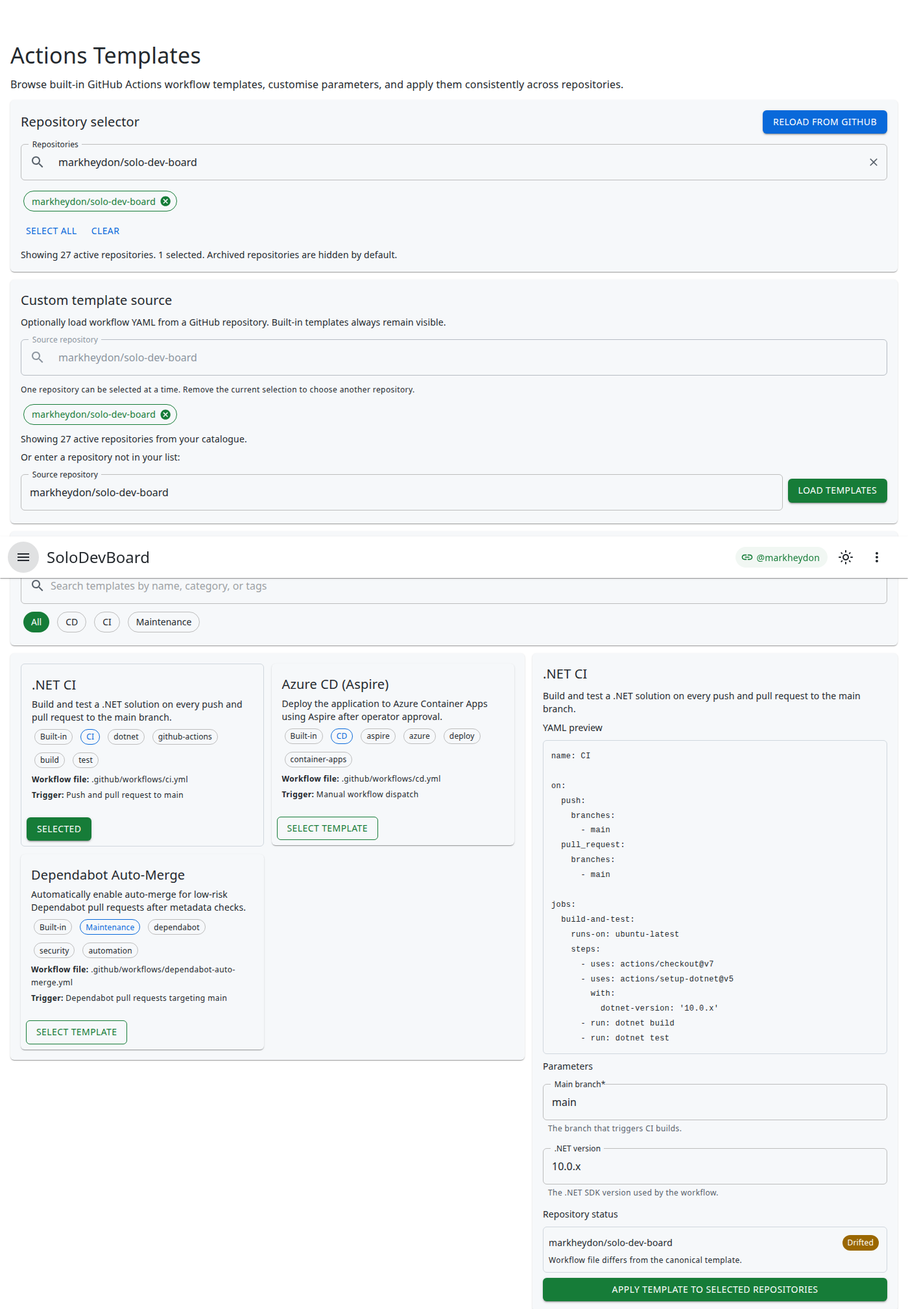
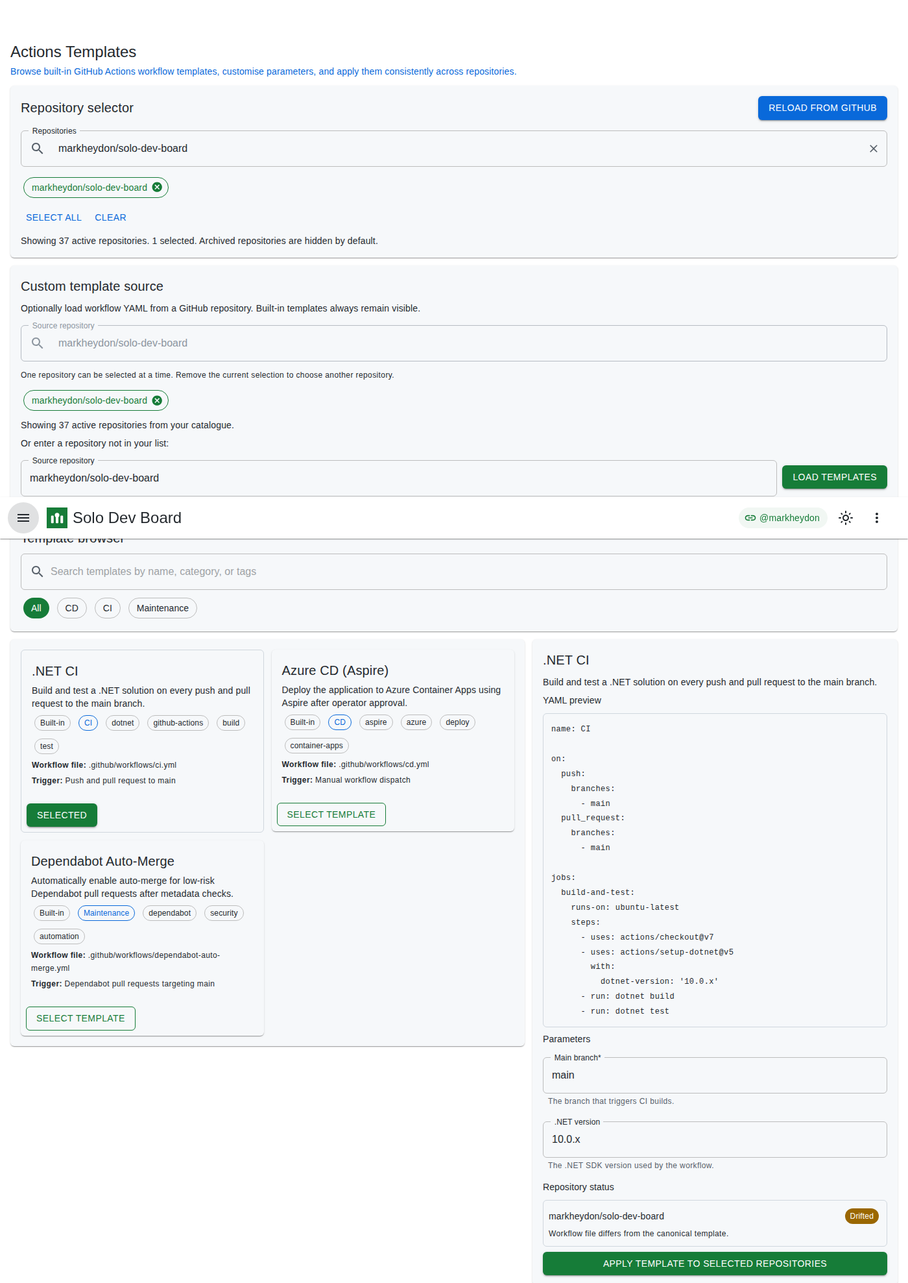
[Documentation] Release v1.4.0 guide, screenshots, and Spec Kit cut-over
Recapture User Guide images after chrome and branding, publish CHANGELOG 1.4.0,
archive shipped plan bundles, and document Spec Kit as default for new features.

diff --git a/plan/SPEC_KIT_MIGRATION.md b/plan/SPEC_KIT_MIGRATION.md
@@ -1,8 +1,8 @@
 # Spec Kit Migration Plan
 
-<!-- AI Collaborator Instructions: Follow the pre–Spec Kit cut-over below before running specify/plan/tasks for new features. Execute the migration checklist when the user requests full Spec Kit adoption after v1.4.0. -->
+<!-- AI Collaborator Instructions: Use Spec Kit for new feature work. Legacy v1.4 delivery is complete; shipped bundles live under plan/archive/. -->
 
-**Status:** Scaffold present (`.specify/`); **full adoption starts after `v1.4.0`**. Until then, deliver **`v1.4`** (page chrome, narrow viewports, and branding) via legacy Issues + `plan/` bundles, not Spec Kit.
+**Status:** **Cut-over active** (2026-11-15, with [`v1.4.0`](https://github.com/markheydon/solo-dev-board/releases/tag/v1.4.0)). New capabilities use **Spec Kit** by default. Scaffold: `.specify/`, feature dirs: `specs/<feature>/`.
 
 **Created:** 2026-07-18.
 
@@ -13,12 +13,11 @@
 ## Prerequisites
 
 - [x] Active decisions live under `adr/` (former `plan/DECISIONS.md` retired).
-- [ ] Constitution stable in [`AGENTS.md`](../AGENTS.md) and [`CONVENTIONS.md`](../CONVENTIONS.md).
+- [ ] Constitution stable in [`AGENTS.md`](../AGENTS.md) and [`CONVENTIONS.md`](../CONVENTIONS.md) (parallel `.specify/memory/constitution.md` exists; slimming `AGENTS.md` deferred).
 - [x] Backlog-to-issues Phase 2 complete ([`plan/archive/BACKLOG_TO_ISSUES_MIGRATION.md`](archive/BACKLOG_TO_ISSUES_MIGRATION.md)).
 - [x] `plan/` slimmed for Spec Kit readiness (2026-11-14): Copilot-era bundles and phased plan archived; see [`plan/README.md`](README.md).
-- [x] Pre–Spec Kit cut-over agreed (2026-11-15), revised the same day: finish **`v1.4`**, including branding pulled forward from a planned `v1.5`, on the existing GitHub Issue tree before Spec Kit becomes the default for new work.
-
-**Execute the migration checklist below after `v1.4.0` is tagged** (or when the user explicitly approves an earlier pilot).
+- [x] Pre–Spec Kit cut-over agreed (2026-11-15): finish **`v1.4`**, then adopt Spec Kit for new work.
+- [x] **`v1.4.0` tagged** (2026-11-15); re-archive review recorded below.
 
 ---
 
@@ -26,17 +25,26 @@
 
 | Phase | Milestone | Delivery mode | Product intent |
 | --- | --- | --- | --- |
-| **Now** | **`v1.4 - Product chrome, branding, and narrow viewports`** | Normal Plan mode; **existing** epic [#526](https://github.com/markheydon/solo-dev-board/issues/526) and children. Chrome: [#527](https://github.com/markheydon/solo-dev-board/issues/527), [#528](https://github.com/markheydon/solo-dev-board/issues/528), [#530](https://github.com/markheydon/solo-dev-board/issues/530), [#411](https://github.com/markheydon/solo-dev-board/issues/411). Branding (pulled forward 2026-11-15): [#397](https://github.com/markheydon/solo-dev-board/issues/397), [#529](https://github.com/markheydon/solo-dev-board/issues/529), [#531](https://github.com/markheydon/solo-dev-board/issues/531) | [`product-chrome-ui-quality/`](product-chrome-ui-quality/README.md) bundle + wireframes |
-| **After `v1.4.0`** | Next promoted feature | **Spec Kit default:** `/speckit-specify` → plan → tasks → implement | `.specify/specs/<feature>/`; at most one tracking issue, not a generated subtree |
+| **Complete** | **`v1.4 - Product chrome, branding, and narrow viewports`** | Legacy Issues + `plan/archive/product-chrome-ui-quality/` | Shipped [`v1.4.0`](https://github.com/markheydon/solo-dev-board/releases/tag/v1.4.0) |
+| **Now** | Next promoted feature | **Spec Kit default:** `/speckit-specify` → plan → tasks → implement | `specs/<feature>/`; at most one tracking issue, not a generated subtree |
 
 There is no `v1.5` milestone. Do not declare one for branding.
 
 ### Rules for agents
 
-1. **Do not** run Spec Kit specify/plan/tasks for **`v1.4`** scope (chrome or branding) unless the user explicitly overrides (for example a post-ship archival spec).
-2. **Do not** use Copilot-era planning prompts to mint new Epic → Feature → Story trees for work that already has issues.
-3. **Do** use Spec Kit for **new** or **ice-box promoted** capabilities after cut-over, typically a single Feature or Story worth of intent, not prompt-driven decomposition.
-4. **Re-archive review:** After **`v1.4.0`**, review active `plan/` feature bundles ([`product-chrome-ui-quality/`](product-chrome-ui-quality/README.md), [`label-remap-taxonomy-project-plan.md`](label-remap-taxonomy-project-plan.md), wireframes) and move superseded prose to [`archive/`](archive/README.md) or into `.specify/specs/` as appropriate. Record outcome in this file.
+1. **Do** use Spec Kit for **new** or **ice-box promoted** capabilities.
+2. **Do not** use Copilot-era planning prompts to mint new Epic → Feature → Story trees.
+3. **Do not** maintain duplicate feature prose in `plan/SCOPE.md` and a spec for the same capability.
+4. **Historical `v1.4`:** do not re-open Spec Kit specify/plan/tasks for chrome/branding unless the user explicitly requests a post-ship archival spec.
+
+### Re-archive review (2026-11-15, with `v1.4.0`)
+
+| Artefact | Outcome |
+| --- | --- |
+| [`archive/product-chrome-ui-quality/`](archive/product-chrome-ui-quality/README.md) | Archived (shipped `v1.4.0`) |
+| [`archive/label-remap-taxonomy-project-plan.md`](archive/label-remap-taxonomy-project-plan.md) | Archived (shipped `v1.3.0`) |
+| [`wireframes/`](wireframes/) | Retained as implemented UI references |
+| New specs under `specs/` | Deferred until first post-`v1.4.0` feature pilot |
 
 ---
 
@@ -46,7 +54,7 @@ There is no `v1.5` milestone. Do not declare one for branding.
 | --- | --- |
 | `AGENTS.md` + `CONVENTIONS.md` | `.specify/memory/constitution.md` (+ path rules as needed) |
 | `adr/` (product decisions) | Absorbed into constitution and per-feature specs where appropriate |
-| `plan/SCOPE.md` + `plan/wireframes/` | `.specify/specs/<feature>/spec.md` |
+| `plan/SCOPE.md` + `plan/wireframes/` | `specs/<feature>/spec.md` |
 | `plan/archive/IMPLEMENTATION_PLAN.md` (retired) | Spec Kit plan artefacts per feature |
 | `.agents/skills/` | Stays outside Spec Kit (agent orchestration) |
 | `docs/` (operator guides) | Stays end-user facing; link from specs where relevant |
@@ -62,38 +70,35 @@ There is no `v1.5` milestone. Do not declare one for branding.
 
 ---
 
-## Execution checklist (when approved)
+## Execution checklist
 
 ### Step 1 — Initialise Spec Kit
 
-- [ ] Run `specify init` (or equivalent) at repository root.
-- [ ] Add `.specify/` to contributor docs; document CLI prerequisites in `docs/getting-started.md` if needed.
+- [x] Scaffold present (`.specify/` on `main`, PR #590).
+- [x] Contributor pointers in [`docs/getting-started.md`](../docs/getting-started.md) and [`docs/README.md`](../docs/README.md).
+- [x] Maintainer pointers in [`plan/README.md`](README.md), [`plan/DOCS_STRATEGY.md`](DOCS_STRATEGY.md).
 
 ### Step 2 — Import constitution
 
-- [ ] Draft `.specify/memory/constitution.md` from `AGENTS.md`, `CONVENTIONS.md`, and essential `adr/` entries.
-- [ ] Slim `AGENTS.md` to pointer: "Constitution: `.specify/memory/constitution.md`" for Spec Kit users, or keep parallel until cut-over is validated.
+- [x] `.specify/memory/constitution.md` drafted (PR #590).
+- [ ] Slim `AGENTS.md` to a pointer-only constitution gate — **deferred** (explicit follow-up).
 
 ### Step 3 — Pilot one feature spec
 
-- [ ] Pick the first **post–`v1.4.0`** promoted feature (or an explicitly approved pilot).
-- [ ] Create `.specify/specs/<feature>/spec.md` from `plan/SCOPE.md`, wireframes, or a slim issue body.
-- [ ] Run Spec Kit plan/implement flow once end-to-end; capture gaps in this doc.
-- [ ] Branding (#397, #529, #531) stays on the existing issue tree through `v1.4`. Do not pilot Spec Kit on that work unless the user explicitly overrides.
+- [ ] First **post–`v1.4.0`** promoted feature — **deferred** until backlog promotion.
 
 ### Step 4 — Update agent gates
 
-- [ ] Update [`AGENTS.md`](../AGENTS.md) and skills to reference Spec Kit for new feature work.
-- [ ] Update [`plan/DOCS_STRATEGY.md`](DOCS_STRATEGY.md).
+- [ ] Update [`AGENTS.md`](../AGENTS.md) and skills — **deferred** (out of scope for release doc PR).
+- [x] Update [`plan/DOCS_STRATEGY.md`](DOCS_STRATEGY.md).
 
 ### Step 5 — Retire duplicate planning prose
 
-- [ ] Mark migrated sections of `plan/SCOPE.md` as pointers to specs.
+- [x] Shipped increments archived under `plan/archive/`; [`plan/SCOPE.md`](SCOPE.md) keeps boundaries only.
 
 ### Step 6 — Validation
 
-- [ ] One feature delivered via Spec Kit only (spec → plan → implement).
-- [ ] No duplicate decision files outside Spec Kit and `adr/` for the same rule.
+- [ ] One feature delivered via Spec Kit only — **deferred** (pilot feature).
 
 ---
 
@@ -107,8 +112,8 @@ There is no `v1.5` milestone. Do not declare one for branding.
 
 ## Invocation
 
-When ready to execute, give the agent:
+When ready to execute the remaining checklist (pilot feature, `AGENTS.md` slimming):
 
 ```text
-Execute plan/SPEC_KIT_MIGRATION.md — [any constraints, e.g. pilot feature name].
+Execute plan/SPEC_KIT_MIGRATION.md — [constraints, e.g. pilot feature name].
 ```

diff --git a/plan/PROJECT_MANAGEMENT.md b/plan/PROJECT_MANAGEMENT.md
@@ -36,14 +36,14 @@ During catch-up, deferred slices may sit on the milestone as **unlinked stories*
 
 Implementation **phases** in [`archive/IMPLEMENTATION_PLAN.md`](archive/IMPLEMENTATION_PLAN.md) are historical sequencing for the v1.0 release. The Project board **Phase** field is legacy for closed pre-1.0 milestones only.
 
-### Delivery mode: GitHub Issues vs Spec Kit (2026-11-15)
+### Delivery mode: GitHub Issues vs Spec Kit (2026-11-15, cut-over 2026-11-15 with `v1.4.0`)
 
 | When | How to plan and implement |
 |------|---------------------------|
-| **`v1.4`** (product chrome epic [#526](https://github.com/markheydon/solo-dev-board/issues/526), including branding [#397](https://github.com/markheydon/solo-dev-board/issues/397)) | **Legacy / Plan mode:** use the **existing** issue → sub-issue tree and [`product-chrome-ui-quality/`](product-chrome-ui-quality/README.md) bundle. Implement with normal branches and PRs linked to issues. Do **not** run Copilot-era prompts that mint new children. Do **not** use Spec Kit as the planning gate. |
-| **After `v1.4.0`** | **Spec Kit default** for new or promoted features: `.specify/specs/<feature>/` and the `/speckit-*` workflow. Avoid prompt-driven Epic → Feature → Story explosion; prefer one spec per capability and lightweight GitHub tracking. |
+| **Shipped increments** (`v1.4` chrome [#526](https://github.com/markheydon/solo-dev-board/issues/526) and earlier milestones) | **Historical:** Issues + `plan/archive/` bundles. Do not revive Copilot-era prompts to mint new children. |
+| **Now (`v1.4.0` tagged)** | **Spec Kit default** for new or promoted features: `specs/<feature>/` and the `/speckit-*` workflow. Avoid prompt-driven Epic → Feature → Story explosion; prefer one spec per capability and lightweight GitHub tracking. |
 
-Full cut-over rules: [`SPEC_KIT_MIGRATION.md`](SPEC_KIT_MIGRATION.md). Branding ships on **`v1.4`**. Do not declare a separate **`v1.5`** ([DEC-027](adr/adr-0027-post-1-0-milestone-and-work-item-hierarchy.md)).
+Full cut-over rules: [`SPEC_KIT_MIGRATION.md`](SPEC_KIT_MIGRATION.md). Do not declare a separate **`v1.5`** ([DEC-027](adr/adr-0027-post-1-0-milestone-and-work-item-hierarchy.md)).
 
 ---
 
@@ -130,7 +130,7 @@ The descriptive suffix names the milestone theme; it is not repeated in the rele
 | `v1.1 - Cross-Repo Planning & Refinement` | `v1.1.0` | Closed | Shipped 2026-08-31 — **91 closed, 0 open**. |
 | `v1.2 - Planning polish, Reload & Templates` | `v1.2.0` | Closed | Shipped 2026-09-07 — [`v1.2.0`](https://github.com/markheydon/solo-dev-board/releases/tag/v1.2.0). |
 | `v1.3 - Label remap onto the recommended taxonomy` | `v1.3.0` | Closed | Shipped 2026-11-15 — label remap [#491](https://github.com/markheydon/solo-dev-board/issues/491) and fixes. |
-| `v1.4 - Product chrome, branding, and narrow viewports` | `v1.4.0` | Open | Declared 2026-11-15. Chrome [#526](https://github.com/markheydon/solo-dev-board/issues/526), [#527](https://github.com/markheydon/solo-dev-board/issues/527), [#528](https://github.com/markheydon/solo-dev-board/issues/528), [#530](https://github.com/markheydon/solo-dev-board/issues/530), [#411](https://github.com/markheydon/solo-dev-board/issues/411). Branding pulled forward the same day: [#397](https://github.com/markheydon/solo-dev-board/issues/397), [#529](https://github.com/markheydon/solo-dev-board/issues/529), [#531](https://github.com/markheydon/solo-dev-board/issues/531). |
+| `v1.4 - Product chrome, branding, and narrow viewports` | `v1.4.0` | Closed | Shipped 2026-11-15 — [`v1.4.0`](https://github.com/markheydon/solo-dev-board/releases/tag/v1.4.0). Chrome and branding on milestone #10. |
 
 The unused `v1.2.0 - Cross-Repo Planning` milestone was closed then **deleted** on 2026-08-18 after work moved to `v1.1 - Cross-Repo Planning & Refinement`. The current `v1.2` milestone is a later, different increment (Planning polish, Reload, and templates), not a revival of that deleted planning-only bucket.
 

diff --git a/plan/SCOPE.md b/plan/SCOPE.md
@@ -94,8 +94,8 @@ The following are explicitly **not** in scope for the current version of Solo De
 - **AI-driven development:** The project is developed with GitHub Copilot as an active collaborator. All planning documents are written to be machine-readable and actionable by AI agents.
 - **Minimal dependencies:** Prefer the .NET ecosystem and well-established open source libraries. Avoid adding dependencies without an ADR ([`adr/`](../adr/)).
 - **UI component library:** MudBlazor is the sole UI component library for the Blazor front-end (see [DEC-009](adr/adr-0012-switch-to-mudblazor-component-library.md)). Page chrome follows [DEC-039](adr/adr-0039-mudblazor-visual-language-for-page-chrome.md). Raw HTML form elements are not used where a MudBlazor equivalent exists.
-- **Product mark:** Display name **Solo Dev Board**, Solo family seal (favicon / GitHub App / public-site logo), and related copy ship on milestone **`v1.4`** ([#397](https://github.com/markheydon/solo-dev-board/issues/397), [#529](https://github.com/markheydon/solo-dev-board/issues/529), [#531](https://github.com/markheydon/solo-dev-board/issues/531)). Code identifiers remain `SoloDevBoard`. See [`plan/wireframes/product-branding-wireframe.md`](wireframes/product-branding-wireframe.md).
-- **Responsive web (not a native app):** Phone and tablet browsers are in-scope quality for shipped pages. Compact tablet (iPad mini class) is the practical daily-use target; phone-width must remain usable. Tracked on milestone **`v1.4`** as story [#411](https://github.com/markheydon/solo-dev-board/issues/411) under the visual language feature ([#527](https://github.com/markheydon/solo-dev-board/issues/527) / epic [#526](https://github.com/markheydon/solo-dev-board/issues/526)). A native iOS or Android application remains out of scope.
+- **Product mark:** Display name **Solo Dev Board**, Solo family seal (favicon / GitHub App / public-site logo), and related copy (shipped [`v1.4.0`](https://github.com/markheydon/solo-dev-board/releases/tag/v1.4.0); [#397](https://github.com/markheydon/solo-dev-board/issues/397)). Code identifiers remain `SoloDevBoard`. Wireframe: [`plan/wireframes/product-branding-wireframe.md`](wireframes/product-branding-wireframe.md).
+- **Responsive web (not a native app):** Phone and tablet browsers are in-scope quality for shipped pages. Compact tablet (iPad mini class) is the practical daily-use target; phone-width must remain usable (shipped `v1.4`; [#411](https://github.com/markheydon/solo-dev-board/issues/411)). A native iOS or Android application remains out of scope.
 
 ---
 
@@ -144,4 +144,5 @@ The following are explicitly **not** in scope for the current version of Solo De
 | 2026-11-14 | Label remap ([#491](https://github.com/markheydon/solo-dev-board/issues/491)) delivered on `v1.3`; milestone ready to tag. Roadmap status consolidated in [`plan/BACKLOG.md`](BACKLOG.md). | Solo developer |
 | 2026-11-15 | `v1.3 - Label remap onto the recommended taxonomy` tagged [`v1.3.0`](https://github.com/markheydon/solo-dev-board/releases/tag/v1.3.0). Opened **`v1.4 - Product chrome and narrow viewports`**; [#411](https://github.com/markheydon/solo-dev-board/issues/411) on that milestone. | Solo developer |
 | 2026-11-15 | Product branding ([#397](https://github.com/markheydon/solo-dev-board/issues/397), [#529](https://github.com/markheydon/solo-dev-board/issues/529), [#531](https://github.com/markheydon/solo-dev-board/issues/531)) pulled into **`v1.4`**. Milestone renamed **`v1.4 - Product chrome, branding, and narrow viewports`**. No separate `v1.5`. Spec Kit cut-over moves to after `v1.4.0`. | Solo developer |
+| 2026-11-15 | **`v1.4 - Product chrome, branding, and narrow viewports`** tagged [`v1.4.0`](https://github.com/markheydon/solo-dev-board/releases/tag/v1.4.0). Spec Kit is the default for new feature intent ([`SPEC_KIT_MIGRATION.md`](SPEC_KIT_MIGRATION.md)). | Solo developer |
 

diff --git a/plan/BACKLOG.md b/plan/BACKLOG.md
@@ -25,9 +25,9 @@ For historical backlog content (pre-migration), see [archive/BACKLOG-2026-07-18.
 | Cross-Repo Planning & Refinement | `v1.1 - Cross-Repo Planning & Refinement` | `v1.1.0` | Complete — [`v1.1.0`](https://github.com/markheydon/solo-dev-board/releases/tag/v1.1.0) (2026-08-31) |
 | Planning polish, Reload & Templates | `v1.2 - Planning polish, Reload & Templates` | `v1.2.0` | Complete — [`v1.2.0`](https://github.com/markheydon/solo-dev-board/releases/tag/v1.2.0) (2026-09-07) |
 | Label remap onto the recommended taxonomy | `v1.3 - Label remap onto the recommended taxonomy` | `v1.3.0` | Complete — [`v1.3.0`](https://github.com/markheydon/solo-dev-board/releases/tag/v1.3.0) (2026-11-15) |
-| Product chrome, branding, and narrow viewports | `v1.4 - Product chrome, branding, and narrow viewports` | `v1.4.0` | Active - [milestone #10](https://github.com/markheydon/solo-dev-board/milestone/10): chrome [#526](https://github.com/markheydon/solo-dev-board/issues/526), [#527](https://github.com/markheydon/solo-dev-board/issues/527), [#528](https://github.com/markheydon/solo-dev-board/issues/528), [#530](https://github.com/markheydon/solo-dev-board/issues/530), [#411](https://github.com/markheydon/solo-dev-board/issues/411); branding [#397](https://github.com/markheydon/solo-dev-board/issues/397), [#529](https://github.com/markheydon/solo-dev-board/issues/529), [#531](https://github.com/markheydon/solo-dev-board/issues/531) (pulled forward 2026-11-15). Planning: [`product-chrome-ui-quality/`](product-chrome-ui-quality/README.md). Spec Kit after `v1.4.0` ([`SPEC_KIT_MIGRATION.md`](SPEC_KIT_MIGRATION.md)). |
+| Product chrome, branding, and narrow viewports | `v1.4 - Product chrome, branding, and narrow viewports` | `v1.4.0` | Complete — [`v1.4.0`](https://github.com/markheydon/solo-dev-board/releases/tag/v1.4.0) (2026-11-15). Milestone [#10](https://github.com/markheydon/solo-dev-board/milestone/10) closed. |
 
-Per [DEC-027](adr/adr-0027-post-1-0-milestone-and-work-item-hierarchy.md), **`v1.4`** is the only **open** milestone. Product branding is on that milestone. Do not declare a separate **`v1.5`**.
+Per [DEC-027](adr/adr-0027-post-1-0-milestone-and-work-item-hierarchy.md), there is **no open milestone** until the next release is declared. **New or promoted features** use **Spec Kit** ([`SPEC_KIT_MIGRATION.md`](SPEC_KIT_MIGRATION.md)), not Copilot-era issue-tree prompts. Do not declare a separate **`v1.5`** for branding (folded into `v1.4`).
 
 **Unmilestoned backlog:** [#293](https://github.com/markheydon/solo-dev-board/issues/293) (platform-blocked private user-owned Projects v2 under hosted sign-in); [#391](https://github.com/markheydon/solo-dev-board/issues/391) (Aspire PM settings store); [#498](https://github.com/markheydon/solo-dev-board/issues/498) (persist Actions template source — blocked by #391); ice-box catalogue and hygiene work ([#381](https://github.com/markheydon/solo-dev-board/issues/381), [#435](https://github.com/markheydon/solo-dev-board/issues/435)–[#439](https://github.com/markheydon/solo-dev-board/issues/439), [#450](https://github.com/markheydon/solo-dev-board/issues/450), [#470](https://github.com/markheydon/solo-dev-board/issues/470), [#534](https://github.com/markheydon/solo-dev-board/issues/534)–[#537](https://github.com/markheydon/solo-dev-board/issues/537), [#571](https://github.com/markheydon/solo-dev-board/issues/571)). Dispositions: [Ice-box review](#ice-box-review-2026-11-15). Closed ice-box direction: [#475](https://github.com/markheydon/solo-dev-board/issues/475) (see [`PRODUCT_OPERATING_SYSTEM.md`](PRODUCT_OPERATING_SYSTEM.md)). See [open issues](https://github.com/markheydon/solo-dev-board/issues?q=is%3Aissue+is%3Aopen).
 

diff --git a/CHANGELOG.md b/CHANGELOG.md
@@ -7,6 +7,29 @@ and this project adheres to [Semantic Versioning](https://semver.org/spec/v2.0.0
 
 ## [Unreleased]
 
+## [1.4.0] - 2026-11-15
+
+Product chrome, branding, and narrow viewports. GitHub milestone [`v1.4 - Product chrome, branding, and narrow viewports`](https://github.com/markheydon/solo-dev-board/milestone/10) closed with 11 issues delivered. User Guide screenshots recaptured for shared chrome and branding. Maintainer docs updated for **Spec Kit** as the default for new feature work ([`plan/SPEC_KIT_MIGRATION.md`](plan/SPEC_KIT_MIGRATION.md)).
+
+### Added
+
+- **Product identity** — spoken display name **Solo Dev Board**, Solo family mark on the app bar and welcome page, and an updated favicon set ([#397](https://github.com/markheydon/solo-dev-board/issues/397), [#531](https://github.com/markheydon/solo-dev-board/issues/531)).
+
+### Changed
+
+- **Visual language** — shared MudBlazor page chrome across shipped feature pages ([#527](https://github.com/markheydon/solo-dev-board/issues/527), [#528](https://github.com/markheydon/solo-dev-board/issues/528), [#530](https://github.com/markheydon/solo-dev-board/issues/530)).
+- **Narrow viewports** — phone- and compact-tablet-friendly layout on representative routes ([#411](https://github.com/markheydon/solo-dev-board/issues/411)).
+- **Theming** — centralised theme tokens and removal of redundant MudBlazor CSS overrides ([#529](https://github.com/markheydon/solo-dev-board/issues/529)).
+
+### Known limitations (not in this release)
+
+- Persisted default workflow template parameter profiles ([#436](https://github.com/markheydon/solo-dev-board/issues/436)) remain planned for a later release.
+- Server-backed persistence for the custom Actions template source waits on an Aspire product store ([#498](https://github.com/markheydon/solo-dev-board/issues/498), blocked by [#391](https://github.com/markheydon/solo-dev-board/issues/391)).
+- Private user-owned Projects v2 under hosted GitHub App sign-in remain platform-blocked ([#293](https://github.com/markheydon/solo-dev-board/issues/293)).
+- Repositories Add / Remove / Bulk / Edit / More actions remain stubs ([#435](https://github.com/markheydon/solo-dev-board/issues/435)).
+- Full GitHub Project v2 automation-rule retrieval remains a later Board Rules slice ([#437](https://github.com/markheydon/solo-dev-board/issues/437)).
+- Window-focus refetch after Reload from GitHub remains ice-boxed ([#450](https://github.com/markheydon/solo-dev-board/issues/450)).
+
 ## [1.3.0] - 2026-11-15
 
 Label remap onto the recommended taxonomy. GitHub milestone [`v1.3 - Label remap onto the recommended taxonomy`](https://github.com/markheydon/solo-dev-board/milestone/9) closed with 14 issues delivered.
@@ -31,7 +54,6 @@ Label remap onto the recommended taxonomy. GitHub milestone [`v1.3 - Label remap
 - Repositories Add / Remove / Bulk / Edit / More actions remain stubs ([#435](https://github.com/markheydon/solo-dev-board/issues/435)).
 - Full GitHub Project v2 automation-rule retrieval remains a later Board Rules slice ([#437](https://github.com/markheydon/solo-dev-board/issues/437)).
 - Window-focus refetch after Reload from GitHub remains ice-boxed ([#450](https://github.com/markheydon/solo-dev-board/issues/450)).
-- MudBlazor page chrome ([#528](https://github.com/markheydon/solo-dev-board/issues/528)) and narrow-viewport layout ([#411](https://github.com/markheydon/solo-dev-board/issues/411)) are scoped on milestone **`v1.4`** ([#526](https://github.com/markheydon/solo-dev-board/issues/526), [#527](https://github.com/markheydon/solo-dev-board/issues/527)).
 
 ## [1.2.0] - 2026-09-07
 

diff --git a/plan/PROJECT_README.md b/plan/PROJECT_README.md
@@ -17,11 +17,11 @@ Refresh this file when milestones change so the public board description does no
 
 SoloDevBoard provides a single pane of glass for solo developers managing GitHub workloads across multiple repositories.
 
-**Status:** On track. Public releases through [v1.3.0](https://github.com/markheydon/solo-dev-board/releases/tag/v1.3.0) (label remap). Active milestone: [**v1.4 - Product chrome, branding, and narrow viewports**](https://github.com/markheydon/solo-dev-board/milestone/10) (chrome [#526](https://github.com/markheydon/solo-dev-board/issues/526), [#527](https://github.com/markheydon/solo-dev-board/issues/527), [#528](https://github.com/markheydon/solo-dev-board/issues/528), [#530](https://github.com/markheydon/solo-dev-board/issues/530), [#411](https://github.com/markheydon/solo-dev-board/issues/411); branding [#397](https://github.com/markheydon/solo-dev-board/issues/397), [#529](https://github.com/markheydon/solo-dev-board/issues/529), [#531](https://github.com/markheydon/solo-dev-board/issues/531)).
+**Status:** On track. Public releases through [v1.4.0](https://github.com/markheydon/solo-dev-board/releases/tag/v1.4.0) (product chrome, branding, and narrow viewports). **No open milestone** until the next increment is declared ([DEC-027](https://github.com/markheydon/solo-dev-board/blob/main/adr/adr-0027-post-1-0-milestone-and-work-item-hierarchy.md)).
 
 ### Current focus
 
-Deliver page chrome, narrow-viewport layout, and product branding on **`v1.4`** using the existing issue tree ([DEC-027](https://github.com/markheydon/solo-dev-board/blob/main/adr/adr-0027-post-1-0-milestone-and-work-item-hierarchy.md)). Branding ([#397](https://github.com/markheydon/solo-dev-board/issues/397) and children) was pulled into this milestone on 2026-11-15; there is no `v1.5`. Spec Kit is the default for **new** features after **`v1.4.0`** ([plan/SPEC_KIT_MIGRATION.md](https://github.com/markheydon/solo-dev-board/blob/main/plan/SPEC_KIT_MIGRATION.md)). Ice-box catalogue work stays unmilestoned until promoted from [plan/BACKLOG.md](https://github.com/markheydon/solo-dev-board/blob/main/plan/BACKLOG.md). Do not start platform-blocked [#293](https://github.com/markheydon/solo-dev-board/issues/293), [#391](https://github.com/markheydon/solo-dev-board/issues/391), or [#498](https://github.com/markheydon/solo-dev-board/issues/498) without an explicit decision.
+Promote the next capability from the ice-box or unmilestoned backlog using **GitHub Spec Kit** (`specs/<feature>/`, `/speckit-specify` → plan → tasks → implement). See [plan/SPEC_KIT_MIGRATION.md](https://github.com/markheydon/solo-dev-board/blob/main/plan/SPEC_KIT_MIGRATION.md). Do **not** mint new Epic → Feature → Story trees via Copilot-era planning prompts. Ice-box items stay unmilestoned until promoted from [plan/BACKLOG.md](https://github.com/markheydon/solo-dev-board/blob/main/plan/BACKLOG.md). Do not start platform-blocked [#293](https://github.com/markheydon/solo-dev-board/issues/293), [#391](https://github.com/markheydon/solo-dev-board/issues/391), or [#498](https://github.com/markheydon/solo-dev-board/issues/498) without an explicit decision.
 
 ### Release history
 

diff --git a/plan/DOCS_STRATEGY.md b/plan/DOCS_STRATEGY.md
@@ -13,7 +13,8 @@ This document defines the conventions and processes for maintaining SoloDevBoard
 | **Public product site** | `website/` (Hugo / Hextra, GitHub Pages) | Visitors and app users (landing + User Guide) |
 | **Developer / operator docs** | `docs/` | Contributors, self-hosters, and operators |
 | **Maintainer / PM** | `plan/` | Scope, decisions, runbooks, wireframes |
-| **Constitution** | `AGENTS.md`, `CONVENTIONS.md` | AI agents and contributors (always-on rules) |
+| **Feature intent (Spec Kit)** | `specs/<feature>/` (`.specify/` workflow) | Maintainers and agents planning **new** capabilities after `v1.4.0` |
+| **Constitution** | `AGENTS.md`, `CONVENTIONS.md`, `.specify/memory/constitution.md` | AI agents and contributors (always-on rules) |
 | **ADRs** | `adr/` | Architectural decision records |
 
 Record new decisions with the `create-architectural-decision-record` skill under `adr/`.
@@ -52,7 +53,7 @@ plan/
 ├── BACKLOG.md                  # Canonical roadmap index
 ├── RELEASE_PLAN.md
 ├── wireframes/                 # UI planning references
-├── product-chrome-ui-quality/  # v1.4 delivery bundle (pre–Spec Kit)
+├── archive/product-chrome-ui-quality/  # v1.4 delivery bundle (shipped; archived)
 ├── archive/                    # Historical phased plan, Copilot-era bundles
 ├── DECISIONS.md                # Retired pointer to adr/
 ├── LABEL_STRATEGY.md
@@ -177,6 +178,7 @@ When an AI agent or contributor is asked to write or update documentation:
 > | New architectural decision | Add an ADR under `adr/`; update `CONVENTIONS.md` or `AGENTS.md` if cross-cutting |
 > | Scope change | Update `plan/SCOPE.md`; update `website/content/_index.md` if the published feature list changes |
 > | New release | Follow the [release runbook](RELEASE_PLAN.md#release-runbook): User Guide pass and screenshot recapture **before** the tag, then update `plan/RELEASE_PLAN.md` and [`CHANGELOG.md`](../CHANGELOG.md) |
+> | New product feature (after `v1.4.0`) | Spec Kit spec under `specs/<feature>/` plus User Guide when the feature ships; do not add new `plan/` delivery bundles — see [`SPEC_KIT_MIGRATION.md`](SPEC_KIT_MIGRATION.md) |
 > | New label | Update `plan/LABEL_STRATEGY.md` |
 > | New board column or rule | Update `plan/PROJECT_BOARD_DESIGN.md` |
 > | Project #8 info pane / phase status | Update `plan/PROJECT_README.md` and paste into the project info pane |

diff --git a/plan/README.md b/plan/README.md
@@ -9,7 +9,7 @@ Lean governance, operator notes, and UI wireframes for SoloDevBoard. **Open work
 | [SCOPE.md](SCOPE.md) | In-scope and out-of-scope product boundaries |
 | [BACKLOG.md](BACKLOG.md) | **Canonical** milestone and roadmap index |
 | [RELEASE_PLAN.md](RELEASE_PLAN.md) | Versioning, [release runbook](RELEASE_PLAN.md#release-runbook), historical release notes |
-| [SPEC_KIT_MIGRATION.md](SPEC_KIT_MIGRATION.md) | Spec Kit adoption (after `v1.4.0`; `v1.4` chrome and branding stay on Issues) |
+| [SPEC_KIT_MIGRATION.md](SPEC_KIT_MIGRATION.md) | Spec Kit adoption — **default for new features** since `v1.4.0` |
 
 ## Governance and process
 
@@ -37,16 +37,14 @@ Lean governance, operator notes, and UI wireframes for SoloDevBoard. **Open work
 | [ACCESSIBILITY_AUDIT.md](ACCESSIBILITY_AUDIT.md) | WCAG expectations for E2E |
 | [OPERATIONAL_HARDENING_TEST_COVERAGE.md](OPERATIONAL_HARDENING_TEST_COVERAGE.md) | Operational E2E expectations |
 
-## Active feature planning (pre–Spec Kit)
+## Feature references
 
 | Doc | Purpose |
 |-----|---------|
-| [product-chrome-ui-quality/](product-chrome-ui-quality/README.md) | **`v1.4`** delivery bundle: chrome, narrow viewports, and branding (restored from archive 2026-11-15) |
-| [label-remap-taxonomy-project-plan.md](label-remap-taxonomy-project-plan.md) | Shipped on `v1.3`; re-archive after Spec Kit cut-over |
 | [wireframes/](wireframes/) | Page layout references ([`CONVENTIONS.md`](../CONVENTIONS.md)) |
 
-**`v1.4`** (chrome and branding): Plan mode + existing GitHub Issues only ([`SPEC_KIT_MIGRATION.md`](SPEC_KIT_MIGRATION.md)). **After `v1.4.0`:** new product intent uses Spec Kit (`.specify/specs/`). Re-review what belongs in `plan/` versus `archive/` after `v1.4.0`.
+**New product intent:** GitHub Spec Kit (`specs/<feature>/`) — see [`SPEC_KIT_MIGRATION.md`](SPEC_KIT_MIGRATION.md). Shipped delivery bundles live under [`archive/`](archive/README.md) (for example [`archive/product-chrome-ui-quality/`](archive/product-chrome-ui-quality/README.md) for `v1.4`).
 
 ## Archive
 
-Historical Copilot-era bundles, weekly PM reviews, phased implementation plan, and one-off migration notes: [`archive/`](archive/README.md).
+Historical Copilot-era bundles, shipped milestone plans (`v1.3` label remap, `v1.4` chrome), weekly PM reviews, phased implementation plan, and one-off migration notes: [`archive/`](archive/README.md).

diff --git a/plan/RELEASE_PLAN.md b/plan/RELEASE_PLAN.md
@@ -155,7 +155,7 @@ Platform-blocked and ice-box items are listed in [`BACKLOG.md`](BACKLOG.md); the
 
 **Status:** Complete (2026-11-15). Tagged [`v1.3.0`](https://github.com/markheydon/solo-dev-board/releases/tag/v1.3.0). Milestone #9 closed.
 
-**Documentation gap:** The tag went out without a full User Guide pass or refreshed screenshots for label remap. Clear that gap on the next tag. See [Release runbook](#release-runbook).
+**Documentation gap:** The tag went out without a full User Guide pass or refreshed screenshots for label remap. Cleared on **`v1.4.0`** (full `website/static/images/` recapture). See [Release runbook](#release-runbook).
 
 **Target:** Not set — dates follow actual start per Roadmap date guidelines.
 
@@ -175,13 +175,13 @@ Platform-blocked and ice-box items are listed in [`BACKLOG.md`](BACKLOG.md); the
 
 **Out of milestone:** Ice-box catalogue features; platform-blocked chores ([#293](https://github.com/markheydon/solo-dev-board/issues/293), [#391](https://github.com/markheydon/solo-dev-board/issues/391), [#498](https://github.com/markheydon/solo-dev-board/issues/498)).
 
-**Status:** Active (2026-11-15). Single open milestone per DEC-027. GitHub milestone [#10](https://github.com/markheydon/solo-dev-board/milestone/10).
+**Status:** Complete (2026-11-15). Tagged [`v1.4.0`](https://github.com/markheydon/solo-dev-board/releases/tag/v1.4.0). Milestone [#10](https://github.com/markheydon/solo-dev-board/milestone/10) closed. User Guide and full screenshot pass on `main` before tag.
 
-**After `v1.4.0`:** Spec Kit becomes the default for new feature work; re-review `plan/` archiving per [`SPEC_KIT_MIGRATION.md`](SPEC_KIT_MIGRATION.md).
+**After `v1.4.0`:** Spec Kit is the default for new feature work; `plan/` delivery bundles for shipped increments live under [`archive/`](archive/README.md) (see [`SPEC_KIT_MIGRATION.md`](SPEC_KIT_MIGRATION.md)).
 
-**Planning bundle:** [`product-chrome-ui-quality/README.md`](product-chrome-ui-quality/README.md).
+**Planning bundle (archived):** [`archive/product-chrome-ui-quality/README.md`](archive/product-chrome-ui-quality/README.md).
 
-**Target:** Not set. Dates follow actual start per Roadmap date guidelines.
+**Target:** Shipped 2026-11-15.
 
 ---
 

diff --git a/plan/archive/README.md b/plan/archive/README.md
@@ -18,7 +18,9 @@ Paths in archived files may use pre-2026-11 layouts (`src/App/SoloDevBoard.App`,
 | [`HARDCODING_AUDIT_v1.1.md`](HARDCODING_AUDIT_v1.1.md) | v1.1 maintainer-identity audit ([#423](https://github.com/markheydon/solo-dev-board/issues/423)). |
 | [`ASPIRE_MULTI_PROCESS_FINDINGS.md`](ASPIRE_MULTI_PROCESS_FINDINGS.md) | Optional future Aspire multi-process notes (not a decision). |
 | [`POST_KEY_VAULT_MIGRATION_CLEANUP.md`](POST_KEY_VAULT_MIGRATION_CLEANUP.md) | ADR-0045 legacy Key Vault and empty Aspire resource group cleanup (complete 2026-11-15). |
+| [`label-remap-taxonomy-project-plan.md`](label-remap-taxonomy-project-plan.md) | Label remap delivery bundle (shipped `v1.3.0`). |
+| [`product-chrome-ui-quality/`](product-chrome-ui-quality/README.md) | Product chrome, branding, and narrow viewports (shipped `v1.4.0`). |
 
-Do not add new delivery bundles here; use Issues and Spec Kit specs instead.
+Do not add new delivery bundles here; use Spec Kit specs (`specs/<feature>/`) instead.
 
-**Re-archive review (due after `v1.4.0`):** Decide whether active pre–Spec Kit bundles ([`product-chrome-ui-quality/`](../product-chrome-ui-quality/README.md), [`label-remap-taxonomy-project-plan.md`](../label-remap-taxonomy-project-plan.md)) move back under `archive/` or into `.specify/specs/`. Update [`SPEC_KIT_MIGRATION.md`](../SPEC_KIT_MIGRATION.md) when done.
+**Re-archive review (2026-11-15):** Shipped pre–Spec Kit bundles moved from active `plan/` per [`SPEC_KIT_MIGRATION.md`](../SPEC_KIT_MIGRATION.md). Post-ship archival specs under `specs/` remain optional.

diff --git a/docs/getting-started.md b/docs/getting-started.md
@@ -456,6 +456,21 @@ In production, secret AppHost parameters are supplied from the GitHub `productio
 
 ---
 
+## Product feature work (Spec Kit)
+
+After [`v1.4.0`](https://github.com/markheydon/solo-dev-board/releases/tag/v1.4.0), **new product capabilities** are planned and implemented through **GitHub Spec Kit**, not new markdown delivery bundles under `plan/`.
+
+| Topic | Location |
+| --- | --- |
+| Feature intent (`spec.md`, `plan.md`, `tasks.md`) | `specs/<feature>/` in the repository |
+| Quality gates and principles | [`.specify/memory/constitution.md`](../.specify/memory/constitution.md) |
+| Agent workflow | [AGENTS.md](../AGENTS.md) (`/speckit-*` commands via Cursor) |
+| Maintainer cut-over and archive rules | [plan/SPEC_KIT_MIGRATION.md](../plan/SPEC_KIT_MIGRATION.md) |
+
+Shipped increments (`v1.4` chrome and branding, `v1.3` label remap, and earlier milestones) remain documented via GitHub Issues and archived plans under [`plan/archive/`](../plan/archive/README.md).
+
+---
+
 ## Deploying to Azure
 
 Solo Dev Board deploys to Azure Container Apps via Aspire. See the [Deployment guide](deployment.md) for prerequisites, one-time OIDC bootstrap, GitHub Environment configuration, and first deploy steps. For a **personal instance with a PAT** (no GitHub App), start with [Self-hoster deployment (PAT mode)](deployment.md#self-hoster-deployment-pat-mode). For logs, metrics, and traces after deployment, see the [Observability guide](observability.md).

diff --git a/plan/archive/product-chrome-ui-quality/README.md b/plan/archive/product-chrome-ui-quality/README.md
@@ -1,0 +1,15 @@
+# Product chrome and UI quality — planning bundle (archived)
+
+**Status:** Shipped on [`v1.4.0`](https://github.com/markheydon/solo-dev-board/releases/tag/v1.4.0) (2026-11-15). GitHub Issues ([#526](https://github.com/markheydon/solo-dev-board/issues/526) and children) remain the audit trail.
+
+| Doc | Purpose |
+|-----|---------|
+| [project plan](product-chrome-ui-quality-project-plan.md) | Overview, hierarchy, risks |
+| [QA plan](product-chrome-ui-quality-qa-plan.md) | Entry/exit criteria per stream |
+| [test strategy](product-chrome-ui-quality-test-strategy.md) | bUnit, Playwright, docs capture |
+| [issues checklist](product-chrome-ui-quality-issues-checklist.md) | Issue tree creation (historical; complete) |
+| [test issues checklist](product-chrome-ui-quality-test-issues-checklist.md) | Test issue setup (historical; complete) |
+
+**Wireframes:** [`plan/wireframes/product-ui-language-wireframe.md`](../../wireframes/product-ui-language-wireframe.md), [`plan/wireframes/product-branding-wireframe.md`](../../wireframes/product-branding-wireframe.md).
+
+New feature intent uses **Spec Kit** ([`SPEC_KIT_MIGRATION.md`](../../SPEC_KIT_MIGRATION.md)).
